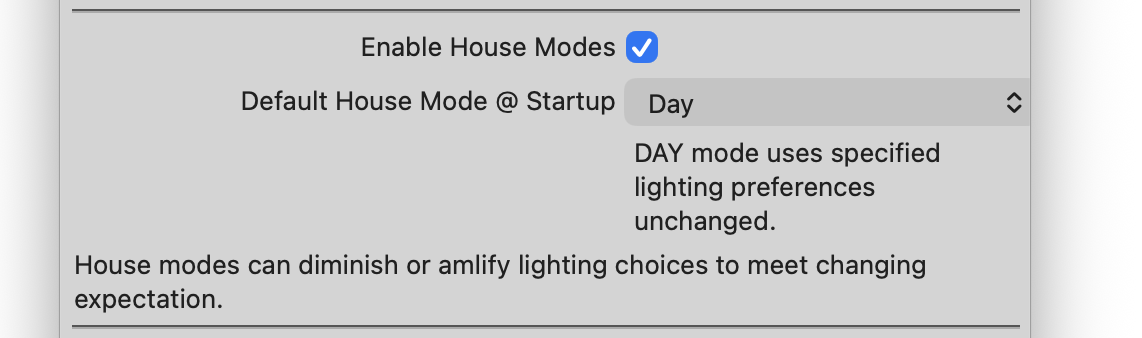
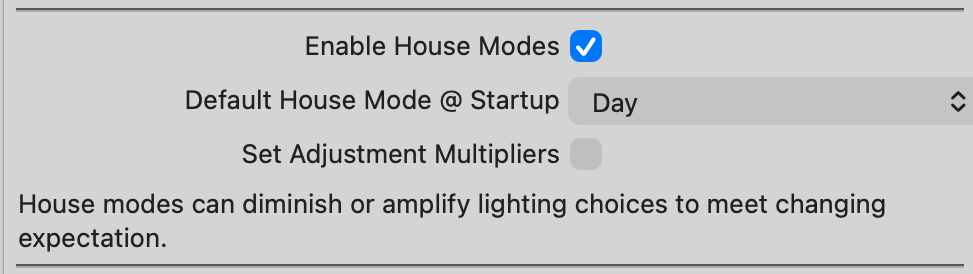
Add files via upload

diff --git a/docs/Derived Brightness Targets.md b/docs/Derived Brightness Targets.md
@@ -1,6 +1,6 @@
 ## House Modes
 
-House Modes apply a brightness scaling factor to Roomify's calculated target brightness.
+House Modes apply a brightness scaling factor to Roomify's calculated target brightness. These default values are subject to override via the plugin configuration. 
 
 |House Mode|Factor|Effect|
 |---|---|---|
@@ -15,6 +15,14 @@ House Modes apply a brightness scaling factor to Roomify's calculated target bri
 |Cleaning|2.00×|Aggressively increase brightness, subject to room limits.|
 
 > Brightness factors are applied before Room Type floor and ceiling constraints are enforced.
+
+### Brightness Factor Override(s)
+
+The default multipliers listed above reflect my preferences for lighting adjustments appropriate to various circumstances in the home. If you have different prefernces, you can implement them via the Roomify plugin configuration in the **House Modes** section.
+
+![](images/houseModesFactors.png)
+
+Any changes you make here will be immediately applied to rooms that are presently on and automated.
 
 ---
 

diff --git a/README.md b/README.md
@@ -45,7 +45,7 @@ A Roomify room understands:
 The room itself becomes the automation object.
 
 ⸻
-![](docs/images/RoomifyPoster.png)
+![](images/RoomifyPoster.png)
 ## Core Concepts
 
 ### Rooms

diff --git a/docs/Overview.md b/docs/Overview.md
@@ -108,8 +108,6 @@ The goal is to make rooms first-class participants in your smart home.
 
 ## See Also: 
 [Getting Started](Getting%20Started.md)
-
 [Device States](DeviceStates.md)
-
 [Derived Brightness Targets](Derived%20Brightness%20Targets.md)
 